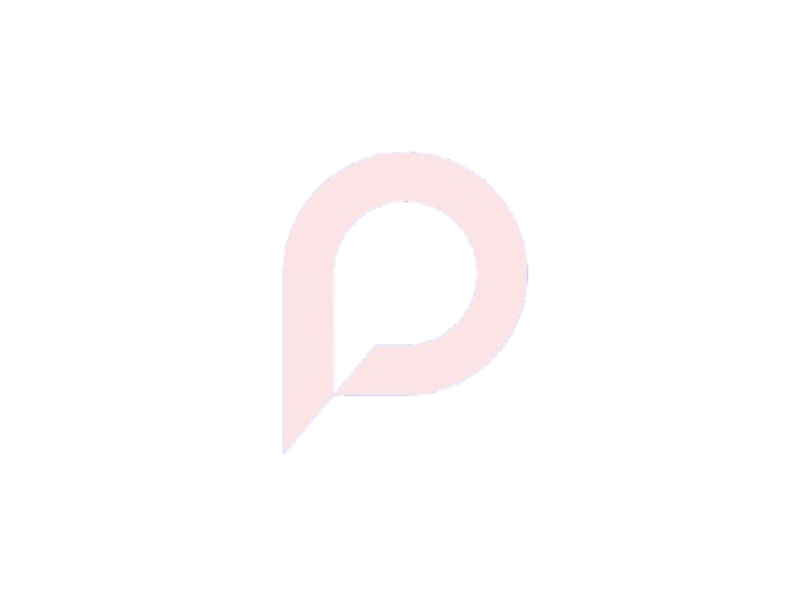
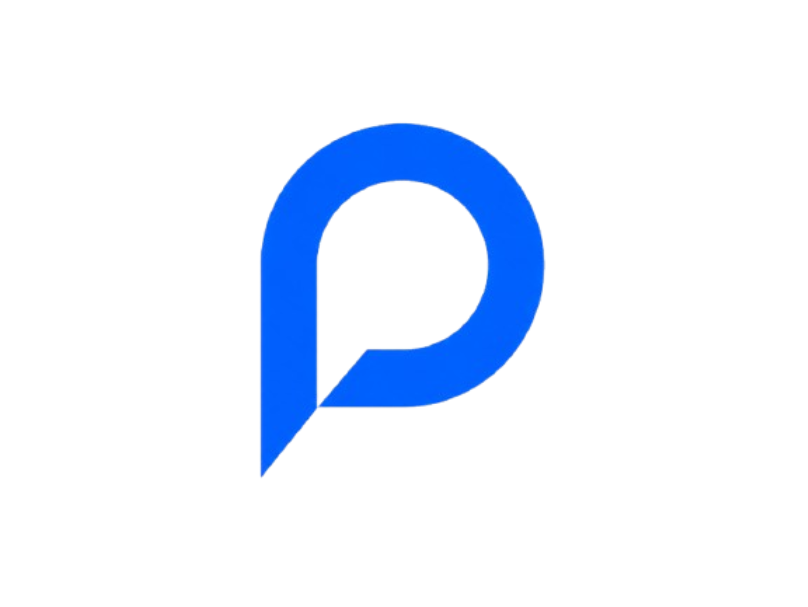
change title p-cms to p-new

Changed region(s): [[0.3094, 0.1782, 0.6807, 0.802]]

diff --git a/src/components/public/PublicNavbar.vue b/src/components/public/PublicNavbar.vue
@@ -50,16 +50,8 @@ function goSearch() {
           <X v-else class="w-6 h-6" />
         </button>
 
-        <a
-          href="/"
-          class="flex shrink-0 items-center gap-2.5"
-          @click.prevent="router.push('/')"
-        >
-          <img
-            src="/p-new.png"
-            alt="logo"
-            class="object-cover w-10 h-10 rounded-xl"
-          />
+        <a href="/" class="flex shrink-0 items-center gap-2.5" @click.prevent="router.push('/')" >
+          <img src="/p-new.png" alt="logo" class="object-cover w-10 h-10 rounded-xl" />
           <div class="leading-tight">
             <span
               class="block text-lg font-extrabold tracking-tight text-gray-900 dark:text-white"

diff --git a/src/services/i18n.ts b/src/services/i18n.ts
@@ -9,7 +9,7 @@ export const LANGUAGES: { code: LanguageCode; label: string; native: string }[] 
 type Dict = Record<string, string>
 
 const en: Dict = {
-  'app.name': 'P CMS',
+  'app.name': 'P NEW',
   'app.tagline': 'Trusted news. Everywhere.',
   'nav.home': 'Home',
   'nav.national': 'National',

diff --git a/src/stores/settings.ts b/src/stores/settings.ts
@@ -5,7 +5,7 @@ export const useSettingsStore = defineStore('settings', {
   state: () => ({
     loaded: false,
     map: {} as SettingsMap,
-    appName: 'P CMS'
+    appName: 'P NEW'
   }),
   actions: {
     async fetch(force = false) {
